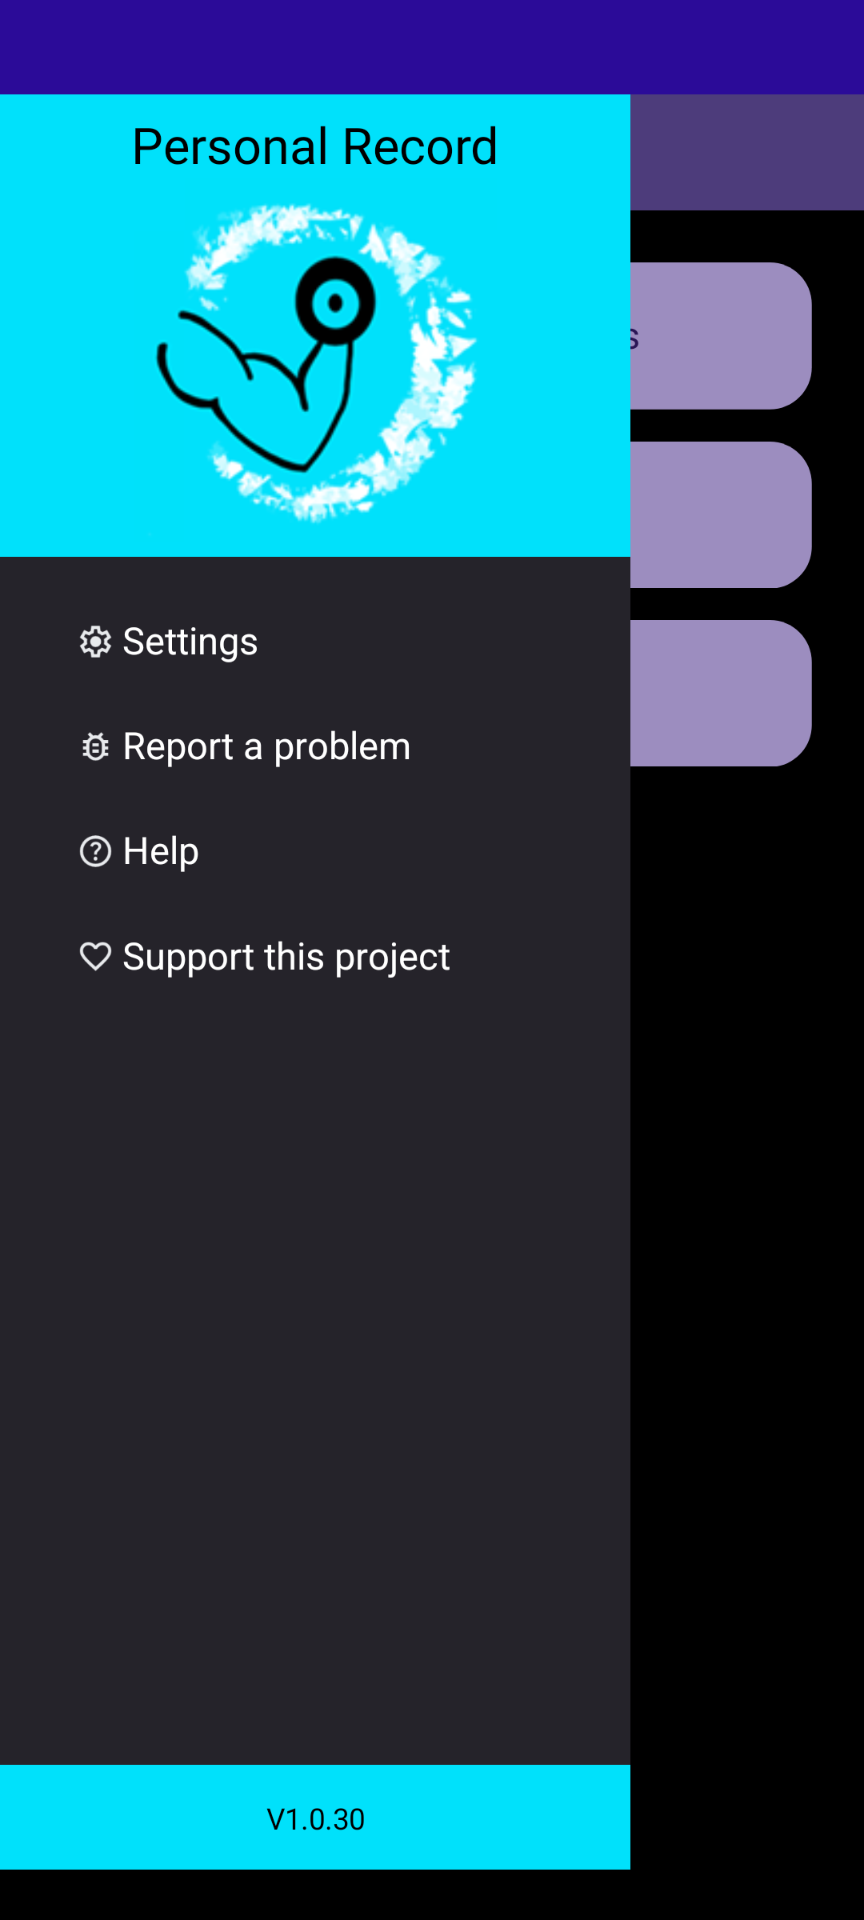
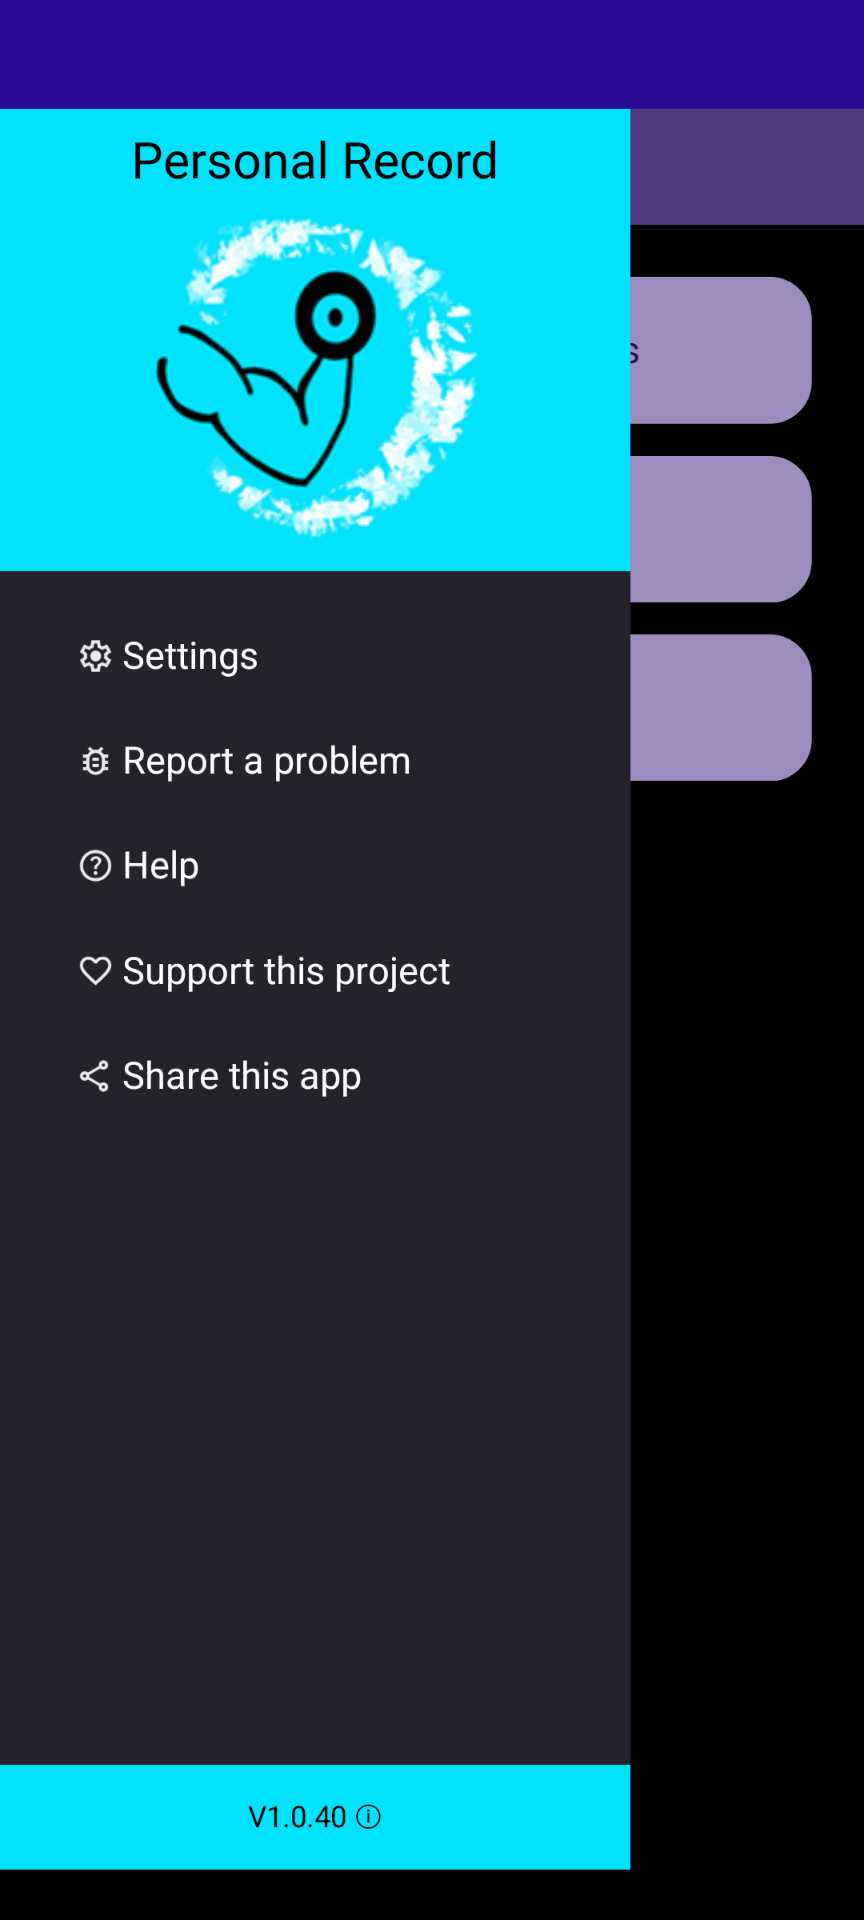
Fix color and update screenshot

diff --git a/src/PersonalRecord.App/Views/MainView.xaml b/src/PersonalRecord.App/Views/MainView.xaml
@@ -14,6 +14,7 @@
         <Color x:Key="TextWhite">#FFFFFF</Color>
         <Color x:Key="TextBlack">#000000</Color>
         <Color x:Key="TransparentBackground">#00FFFFFF</Color>
+        <Color x:Key="LogoBackgroundColor">#00E1FB</Color>
         
         <Style x:Key="SfButtonCustomStyle"
                TargetType="button:SfButton">
@@ -116,11 +117,11 @@
                                                  EnableSwipeGesture="True">
                     
                     <navigationdrawer:DrawerSettings.DrawerHeaderView>
-                        <Grid BackgroundColor="#00E1FB">
+                        <Grid BackgroundColor="{StaticResource LogoBackgroundColor}">
                             <VerticalStackLayout VerticalOptions="Center"
                                                  HorizontalOptions="Center">
                                 <Label Text="{x:Static resources:AppResources.PersonalRecordTitle}"
-                                       BackgroundColor="#00E1FB"
+                                       BackgroundColor="{StaticResource LogoBackgroundColor}"
                                        TextColor="Black"
                                        HorizontalOptions="Center"
                                        FontSize="Title"/>
@@ -184,7 +185,7 @@
                     </navigationdrawer:DrawerSettings.DrawerContentView>
                     
                     <navigationdrawer:DrawerSettings.DrawerFooterView>
-                        <button:SfButton BackgroundColor="#00E1FB"
+                        <button:SfButton Background="{StaticResource LogoBackgroundColor}"
                                          HorizontalOptions="Center"
                                          WidthRequest="300"
                                          CornerRadius="0"
